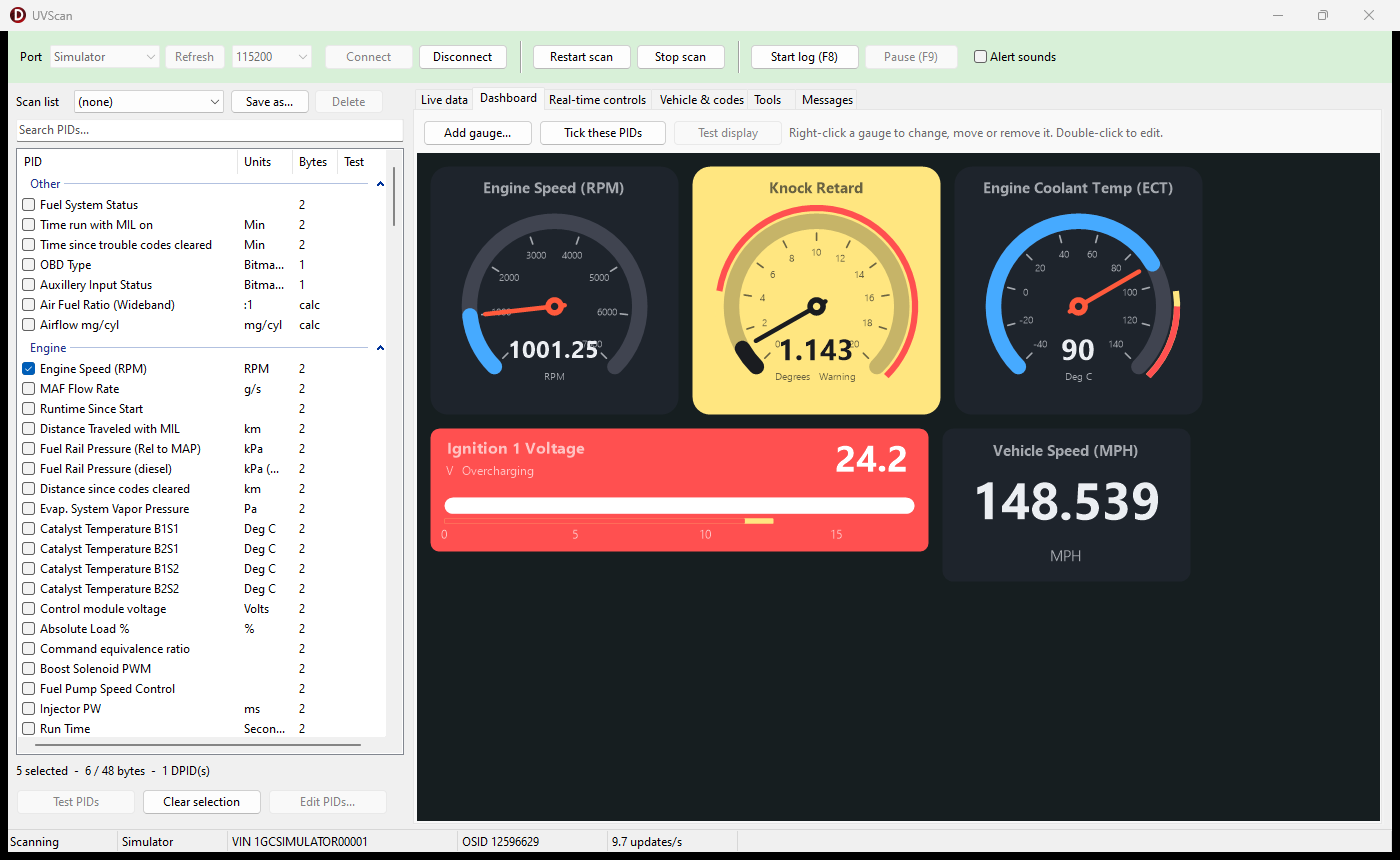
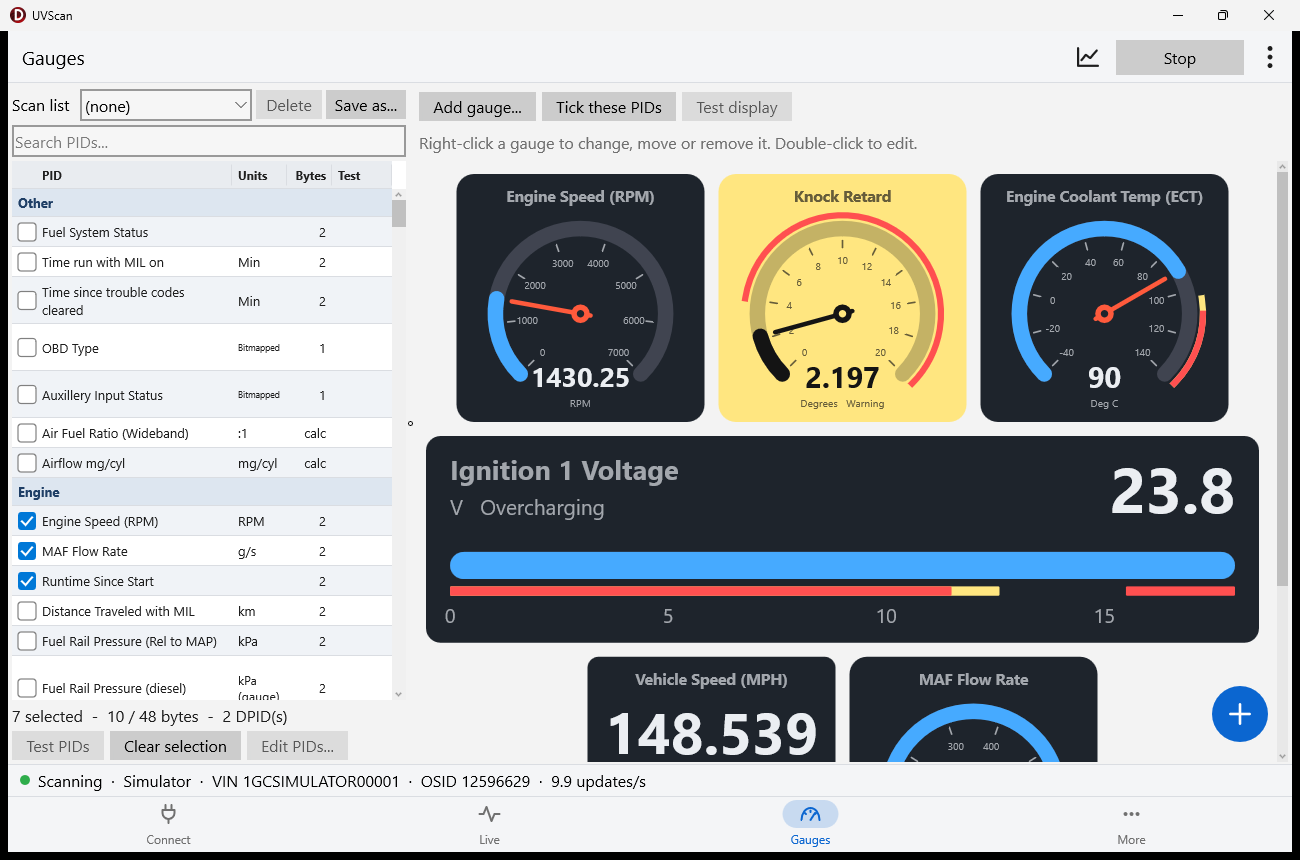
Docs: screenshots of the FMX app
All guide screenshots were still of the VCL app. Retaken on Windows with
the Simulator and the demo drive: live data, zoom, dashboard, gauge
editor, display and alerts, log viewer (lanes, overlay, selection),
controls and their editor, tools, PID editor, PID search. New: the live
chart, and trouble codes (replaces vehicle-codes; vehicle info is on the
Connect page now). Tools text: the log folder and stream speed moved to
Settings.

diff --git a/docs/user-guide.md b/docs/user-guide.md
@@ -76,6 +76,8 @@ Press **Start scan**. Each ticked PID gets a row with its current value, units a
 
 The chart button in the top bar of *Live* and *Gauges* (or **⋮ → Live chart**) shows the running scan as a line chart — the [log viewer](#log-viewer)'s chart, fed by the scan instead of a file. It also charts the [test display](#test-display), so you can try it without a car. On Windows it is a window of its own, so you can keep it beside the live grid; on a phone it is a page (back returns to *Live*).
 
+![Live chart](images/live-chart.png)
+
 - The newest values are on the right and the chart scrolls as they come in. The box after the buttons sets how much it shows: 15 s, 30 s, 1, 2, 5 or 10 minutes (remembered).
 - Every update of the scan is charted (about 10 a second with up to 4 DPIDs), and the last 15 minutes are kept while you scan, so you can open the chart after something happened and still see it.
 - **Pause:** click, drag or touch the chart (or press **Pause** / Space) to stop it scrolling and put the cursor there. The values on the left are then the ones at the cursor; the slider, **|<**, the mouse wheel, panning and selecting a stretch (for min / avg / max) all work as on a log. **Live** (or **>|**) goes back to now.
@@ -181,10 +183,10 @@ While scanning, **Start log (F8)** writes every update to a CSV file named `UVSc
 
 ## Vehicle and trouble codes
 
-![Vehicle and codes](images/vehicle-codes.png)
+![Trouble codes](images/trouble-codes.png)
 
-- **Read vehicle info** — AVT firmware, VIN and PCM OS ID.
-- **Read codes** — trouble codes from every module that answers (PCM, TCM, ABS, BCM, …) with descriptions from `dtcs.json`.
+- **Read vehicle info** (on the *Connect* page) — AVT firmware, VIN and PCM OS ID.
+- **Read codes** (*More → Trouble codes*) — trouble codes from every module that answers (PCM, TCM, ABS, BCM, …) with descriptions from `dtcs.json`.
 - **Clear codes** — asks first, then clears the PCM's codes (cycle the key and read again to confirm).
 
 ## Real‑time controls
@@ -247,9 +249,10 @@ If you know the command for something (from a service manual, a forum, or by log
 ![Tools](images/tools.png)
 
 - **Write VIN** — writes a new 17‑character VIN to the PCM (asks first; turn the key off for 15 s afterwards).
-- **Logging** — the folder for CSV logs.
-- **Advanced** — send a raw AVT frame (hex) and see the reply in Messages, show the raw bus traffic in Messages (**Show raw traffic in Messages**), and choose the stream speed (fast / medium / slow; applies from the next scan).
+- **Advanced** — send a raw AVT frame (hex) and see the reply in Messages, and show the raw bus traffic in Messages (**Show raw traffic in Messages**).
 - **Search PCM for supported PIDs…** — see [below](#finding-pids-a-pcm-supports).
+
+The log folder and the stream speed (fast / medium / slow; applies from the next scan) are in *More → Settings*.
 
 ## Editing PIDs
 
